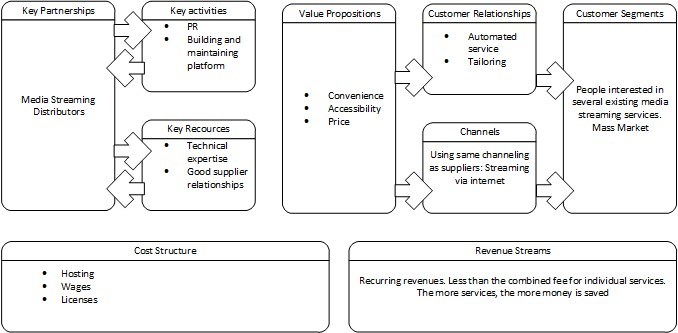
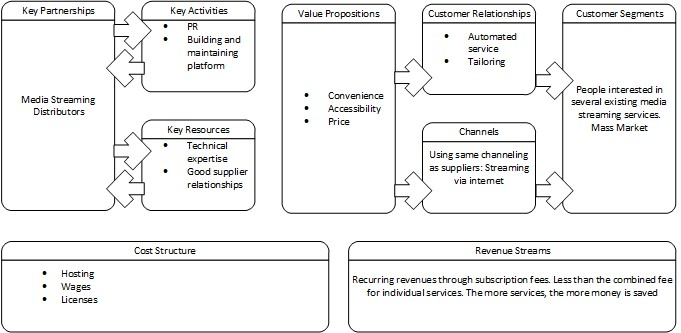
Business Canvas done, needs a ref though

diff --git a/Report/text/BusinessCanvas/business_canvas.tex b/Report/text/BusinessCanvas/business_canvas.tex
@@ -1,11 +1,40 @@
-\section{Business Canvas}
+\section{Business Model Canvas}
 \label{sec:business_canvas}
-\todo{canvas goes here}
+
+By building up a business model canvas as a concept for our project, we gain insight for discussion, and a common understanding for what we are doing. Using Osterwalder's approach \todo{ref to source}, this is done through nine building blocks. In \figref{fig:model_canvas}, a graphical overview of the nine blocks can be seen. Each will be described with relation to the project throughout this chapter.
 
 \begin{figure}[h]
     \begin{center}
         \includegraphics[scale=0.7]{./pics/model_canvas}
-        \label{fig:model_canvas}
         \caption{The Business Model Canvas for our project}
+        \label{fig:model_canvas}
     \end{center}
 \end{figure}
+
+
+\subsubsection*{Customer Segments}
+Our product aims for an already existing market, although we want to change this market. Nonetheless, it is a mass market, consisting of people interested in several existing media streaming services.
+
+\subsubsection*{Value Propositions}
+We are focusing on the customers, who seeks several streaming services, collected in one place and at a lower price. That means there are three services of value for the customers: Convenience, accessibility and price. Convenience comes in collecting the product in one place, and making the interface painless to use. Accessibility is in the amount of suppliers, as more suppliers give wider range of streaming possibilities. Pricing lies in how far down we can push the price, which is also dependent on the suppliers, among other possibilities, such as advertisement.
+
+\subsubsection*{Channels}
+There are several ways of reaching our customers. The one way we are sure of is the fact that we want to offer our services through the same experience as existing services offer them: Streaming over the internet. It is important to note that this has to be done over several platforms, to gain competitive value through accessibility. This includes applications for mobile devices and for consoles. Advertisement of our product can be done in several ways, but the most logical way to go about this is through the suppliers. As the customers are those already using the services that our suppliers offer, the best place to advertise is through these.
+
+\subsubsection*{Customer Relationships}
+As the existing companies do, being the suppliers of our product, we want to offer an automated service through a personal profile. Through this, it is possible to offer service without greater work effort, as well as the customer being able to mend their profile to their needs. As an extra feature, we want the customer to be able to tailor their own profile to their needs. They should only have access to and pay for the services needed, in the case they only want a subset of supplier services. With personal profiles, it is possible through algorithms to use knowledge on past activity to aid the user in their experience and to suggest future actions. If a customer seems to never use the services from a specific supplier, then we can give awareness of this, such that the user can tailor the profile further.
+
+\subsubsection*{Revenue Streams}
+Through the personal profile as an automated service, we want to create earnings through subscription fees. As the most successful streaming services have their income through this method, we see no reason to change this. We want to tempt customers to use our service by being cheaper than using all the services of the customers separately. Furthermore, to tempt customers to buy more, they are given greater offers the more suppliers they add to their profile.
+
+\subsubsection*{Key Resources}
+The most important resources for this project is partnerships with the suppliers and technical expertise. If we do not have suppliers, we don't have a service. If we do not keep the suppliers satisfied with our partnership, we lose them again. Technical expertise means therefore both in our knowledge as developers, but also in public relations. The most needed resources are therefore intelligent and human resources.
+
+\subsubsection*{Key Activities}
+As the business comes up and running, the main activity is maintenance in both relationships and in customer support. If we do not continue our partnership with the suppliers, we cannot guarantee our main contribution from the service, and therefore lose customers. If the customers are unhappy with the product, we will lose them if we aren't able to locate and handle the problem.
+
+\subsubsection*{Key Partnerships}
+The media streaming distributors are our main suppliers, as they give access to the motion pictures our customers want to see. without these, the rest of the business will crumble. It is worth to note that this creates a great risk, as if we cannot live up to the expectations of our suppliers, we can lose these.
+
+\subsubsection*{Cost Structure}
+There are three major cost factors for this project: Hosting, wages and licenses. We need hardware, software locales and technical expertise for hosting. As we need expertise in some areas, such as public relations, there is a greater cost in waging. Furthermore, there is the licensing cost, as we must pay the suppliers for their service to us. We want to handle this as a percentile split, depending on the individual customer. A certain amount from each subscription is dedicated to the suppliers. The amount is based on how the customer has tailored the profile, and how much this individual is paying. Depending on what supplier services the customer has been using, the amount of money is then split, to give those that contribute to the individual customer a greater share of the profit. Another way is to make a fixed arrangement with each supplier, giving the possibility of a greater variety, and therefore a greater attraction value for new customers.

diff --git a/Report/text/Idea/porters_five_forces.tex b/Report/text/Idea/porters_five_forces.tex
@@ -5,8 +5,8 @@ Using Porter's Five Forces, we can analyse the market, and how it affects our pr
 \begin{figure}[h]
     \begin{center}
         \includegraphics[scale=0.65]{./pics/five_forces}
-        \label{fig:five_forces}
         \caption{Porter's Five Forces for the project}
+        \label{fig:five_forces}
     \end{center}
 \end{figure}
 
